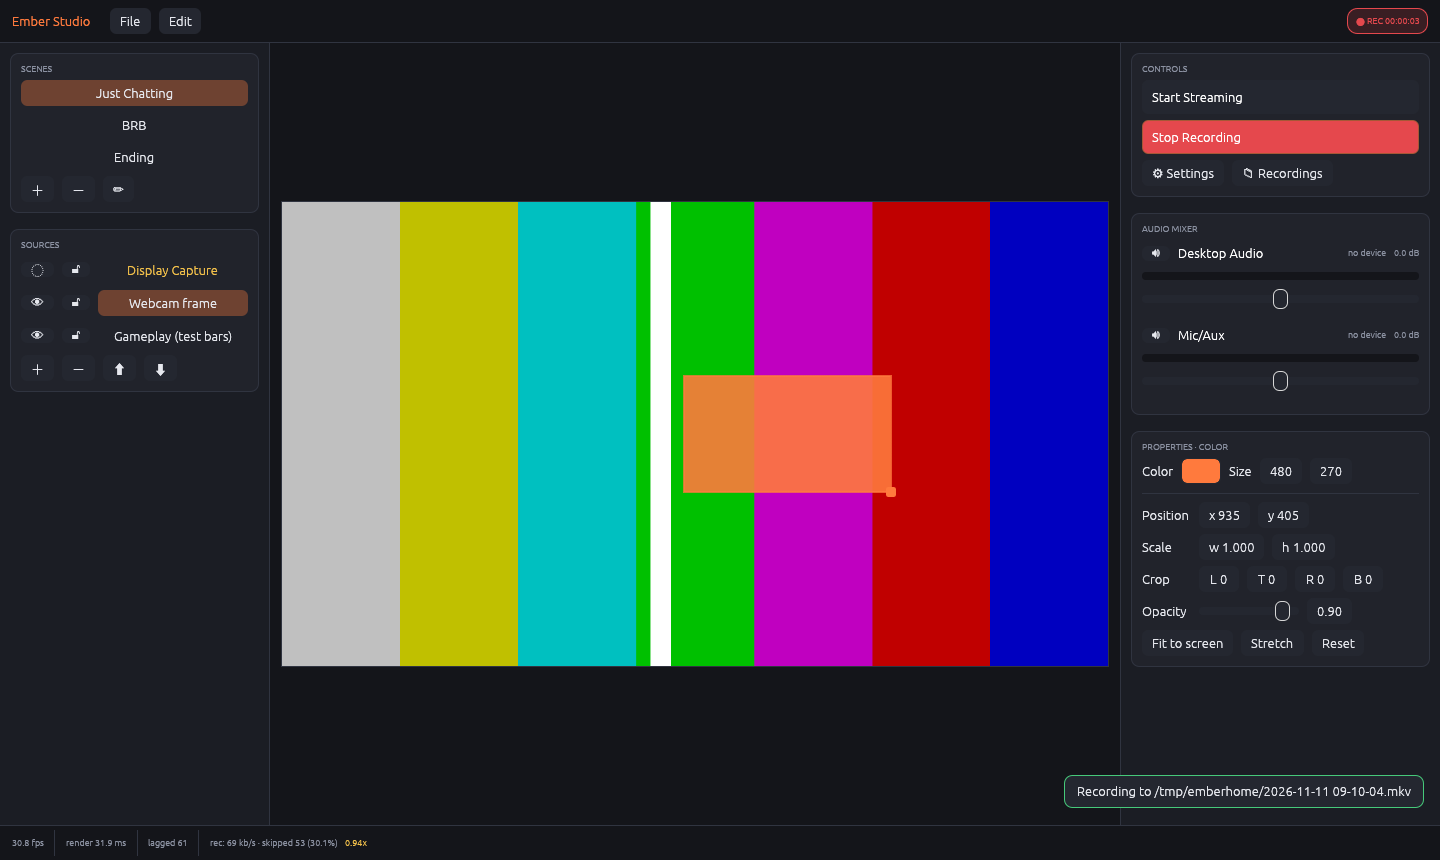
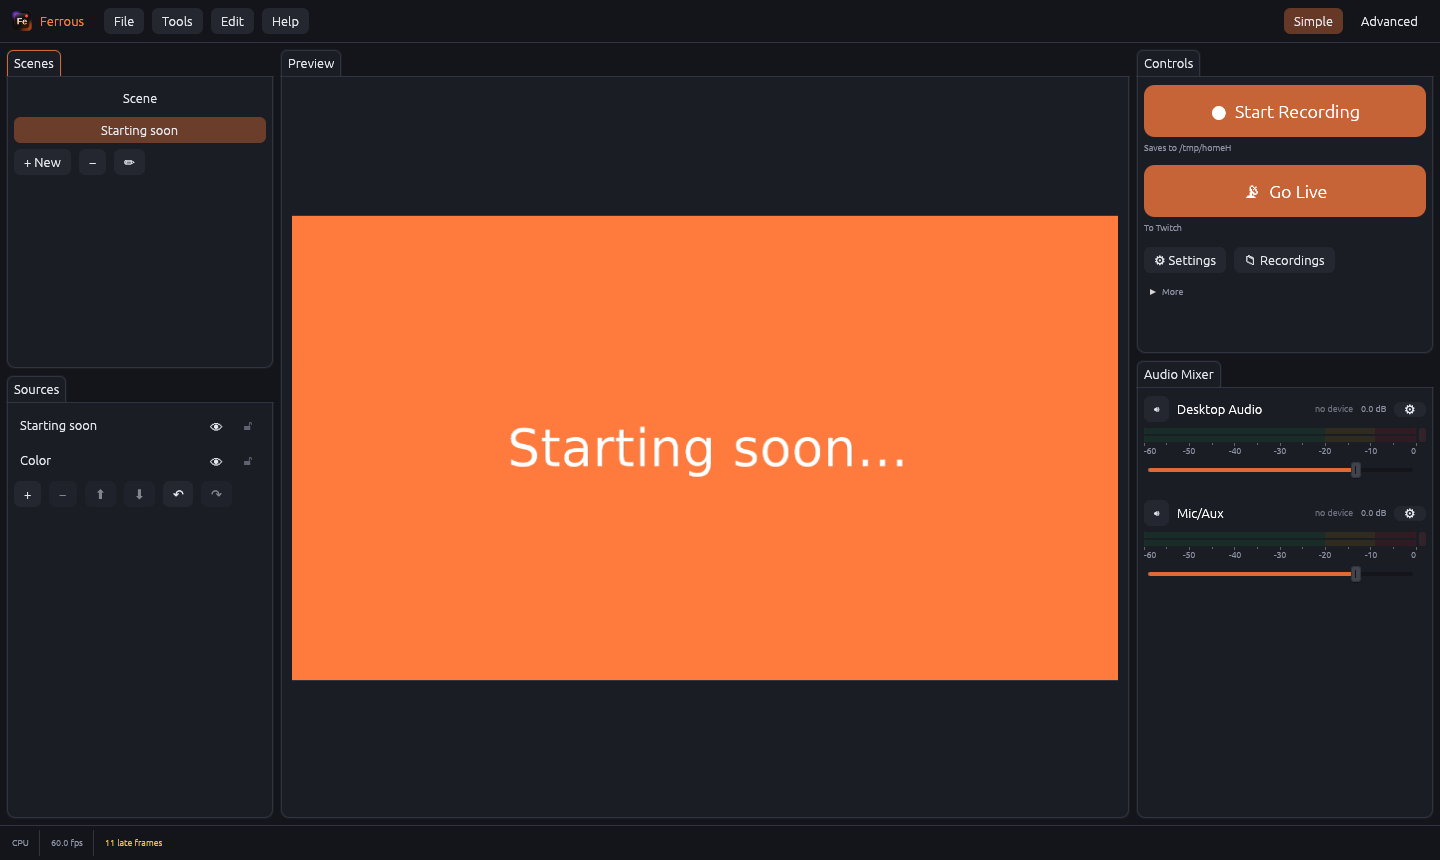
Replace the hero screenshot with the current build; harden config loading; fix Starting soon template
Damaged settings and scene files are kept as .bad instead of being overwritten, values are
range-checked on load, and the Starting soon colour card now fills the canvas.

Claude-Session: https://claude.ai/code/session_011wrQEExmMoz25quPrAzkex

diff --git a/crates/ferrous-core/src/settings.rs b/crates/ferrous-core/src/settings.rs
@@ -667,12 +667,42 @@ impl Settings {
     /// Loads settings, falling back to defaults (and logging) on any error so
     /// a corrupt file never prevents the app from starting.
     pub fn load_or_default(path: &Path) -> Self {
-        match std::fs::read_to_string(path) {
+        let mut s = match std::fs::read_to_string(path) {
             Ok(text) => serde_json::from_str(&text).unwrap_or_else(|e| {
-                log::warn!("settings file is invalid ({e}); using defaults");
+                // Keep the damaged file instead of silently overwriting it
+                // with defaults the next time settings are saved.
+                let bad = path.with_extension("json.bad");
+                let kept = std::fs::copy(path, &bad).is_ok();
+                log::warn!("settings file is invalid ({e}); using defaults{}", if kept { format!(", the old file is kept as {}", bad.display()) } else { String::new() });
                 Self::default()
             }),
             Err(_) => Self::default(),
+        };
+        s.sanitize();
+        s
+    }
+
+    /// Puts hand-edited or damaged values back into a range the rest of the
+    /// program can work with (a frame rate of 0 or a NaN zoom would otherwise
+    /// crash something far from where the bad value came from).
+    pub fn sanitize(&mut self) {
+        let v = &mut self.video;
+        v.fps = v.fps.clamp(1, 240);
+        let even = |x: u32| (x.clamp(16, 16384)) & !1;
+        v.base_width = even(v.base_width);
+        v.base_height = even(v.base_height);
+        v.output_width = even(v.output_width);
+        v.output_height = even(v.output_height);
+        v.vertical = v.vertical.map(|(w, h)| (even(w), even(h)));
+        let u = &mut self.ui;
+        u.ui_scale = if u.ui_scale.is_finite() { u.ui_scale.clamp(0.8, 2.0) } else { 1.0 };
+        u.glass = u.glass.min(2);
+        u.motion = u.motion.min(2);
+        for e in [&mut self.stream.encoder, &mut self.record.encoder] {
+            e.bitrate_kbps = e.bitrate_kbps.clamp(100, 500_000);
+            e.keyframe_interval_secs = e.keyframe_interval_secs.clamp(1, 20);
+            e.b_frames = e.b_frames.min(8);
+            e.hdr_white_nits = e.hdr_white_nits.clamp(50, 1000);
         }
     }
 
@@ -787,5 +817,53 @@ mod tests {
         assert_eq!(s.video.fps, 30);
         assert_eq!(s.video.base_width, 1920);
         assert_eq!(s.stream.encoder.encoder, "libx264");
+    }
+}
+
+#[cfg(test)]
+mod sanitize_tests {
+    use super::*;
+
+    #[test]
+    fn damaged_values_are_pulled_back_into_range() {
+        let mut s = Settings::default();
+        s.video.fps = 0;
+        s.video.base_width = 0;
+        s.video.output_height = 1_000_001;
+        s.video.vertical = Some((1, 99_999));
+        s.ui.ui_scale = f32::NAN;
+        s.ui.glass = 9;
+        s.stream.encoder.bitrate_kbps = 0;
+        s.stream.encoder.keyframe_interval_secs = 0;
+        s.sanitize();
+        assert_eq!(s.video.fps, 1);
+        assert!(s.video.base_width >= 16 && s.video.base_width % 2 == 0);
+        assert_eq!(s.video.output_height, 16384);
+        assert_eq!(s.video.vertical, Some((16, 16384)));
+        assert_eq!(s.ui.ui_scale, 1.0);
+        assert_eq!(s.ui.glass, 2);
+        assert_eq!(s.stream.encoder.bitrate_kbps, 100);
+        assert_eq!(s.stream.encoder.keyframe_interval_secs, 1);
+    }
+
+    #[test]
+    fn defaults_are_already_sane() {
+        let mut s = Settings::default();
+        let before = serde_json::to_string(&s).unwrap();
+        s.sanitize();
+        assert_eq!(before, serde_json::to_string(&s).unwrap());
+    }
+
+    #[test]
+    fn a_broken_file_is_kept_aside_not_lost() {
+        let dir = std::env::temp_dir().join("ferrous-bad-settings-test");
+        let _ = std::fs::remove_dir_all(&dir);
+        std::fs::create_dir_all(&dir).unwrap();
+        let f = dir.join("p.json");
+        std::fs::write(&f, "{ \"video\": { \"fps\": \"sixty\" } }").unwrap();
+        let s = Settings::load_or_default(&f);
+        assert_eq!(s.video.fps, Settings::default().video.fps);
+        assert!(dir.join("p.json.bad").exists());
+        let _ = std::fs::remove_dir_all(&dir);
     }
 }

diff --git a/app/src/layout.rs b/app/src/layout.rs
@@ -443,6 +443,28 @@ pub fn style(egui_style: &egui::Style, cfg: &UiSettings) -> Style {
     s
 }
 
+// ------------------------------------------------------------ simple/advanced
+
+impl Layout {
+    /// Switch between the Simple and Advanced interfaces. The layout of the
+    /// mode being left is parked in `ui.advanced_layout` (Advanced only), and
+    /// the other one comes back.
+    pub fn set_simple(&mut self, ui: &mut UiSettings, simple: bool) {
+        if ui.simple_mode == simple {
+            return;
+        }
+        ui.simple_mode = simple;
+        if simple {
+            ui.advanced_layout = Some(serialize(&self.tree));
+            *self = Self::from_preset(Preset::Simple);
+        } else {
+            let back = ui.advanced_layout.take().as_deref().and_then(parse);
+            self.tree = back.unwrap_or_else(|| Preset::Ferrous.build());
+            self.ensure_preview();
+        }
+    }
+}
+
 #[cfg(test)]
 mod tests {
     use super::*;
@@ -579,30 +601,21 @@ mod tests {
     }
 
     #[test]
+    fn garbage_layouts_fall_back_instead_of_crashing() {
+        assert!(parse("").is_none() && parse("(((").is_none() && parse("{\"a\":1}").is_none());
+        let mut ui = UiSettings { layout: Some("not a layout".into()), advanced_layout: Some("???".into()), simple_mode: true, layout_rev: 2, ..Default::default() };
+        let l = Layout::load_migrated(&mut ui);
+        assert!(l.is_open(Dock::Preview) && l.is_open(Dock::Scenes));
+        // Leaving Simple mode with a damaged parked layout gives the default one.
+        let mut l = l;
+        l.set_simple(&mut ui, false);
+        assert!(l.is_open(Dock::Preview) && l.is_open(Dock::Controls));
+    }
+
+    #[test]
     fn presets_leave_properties_to_the_right_click_menu() {
         for p in PRESETS {
             assert!(!Layout::from_preset(p).is_open(Dock::Properties), "{}", p.label());
-        }
-    }
-}
-// ------------------------------------------------------------ simple/advanced
-
-impl Layout {
-    /// Switch between the Simple and Advanced interfaces. The layout of the
-    /// mode being left is parked in `ui.advanced_layout` (Advanced only), and
-    /// the other one comes back.
-    pub fn set_simple(&mut self, ui: &mut UiSettings, simple: bool) {
-        if ui.simple_mode == simple {
-            return;
-        }
-        ui.simple_mode = simple;
-        if simple {
-            ui.advanced_layout = Some(serialize(&self.tree));
-            *self = Self::from_preset(Preset::Simple);
-        } else {
-            let back = ui.advanced_layout.take().as_deref().and_then(parse);
-            self.tree = back.unwrap_or_else(|| Preset::Ferrous.build());
-            self.ensure_preview();
         }
     }
 }

diff --git a/app/src/app.rs b/app/src/app.rs
@@ -279,6 +279,7 @@ impl FerrousApp {
 
     fn toast(&mut self, text: impl Into<String>, error: bool) {
         let text = text.into();
+        self.toasts.retain(|t| t.text != text || t.action.is_some());
         if error {
             log::error!("{text}");
             // Say what to do about it, not what the encoder said.
@@ -288,10 +289,14 @@ impl FerrousApp {
             }
         }
         self.toasts.push(Toast { text, detail: None, error, action: None, at: Instant::now() });
+        let extra = self.toasts.len().saturating_sub(5);
+        self.toasts.drain(..extra);
     }
 
     /// A message with an Undo button, for things that were just removed.
     fn toast_undo(&mut self, text: impl Into<String>) {
+        // One Undo at a time is enough; older ones would undo the wrong thing.
+        self.toasts.retain(|t| t.action != Some(ToastAction::Undo));
         self.toasts.push(Toast { text: text.into(), detail: None, error: false, action: Some(ToastAction::Undo), at: Instant::now() });
     }
 
@@ -3326,7 +3331,17 @@ impl FerrousApp {
                 add(self, Kind::Camera, Place::Corner(0.2));
             }
             Template::StartingSoon => {
-                add(self, Kind::Color, Place::Fill);
+                // A colour card the size of the canvas, so it fills the picture.
+                let (cw, ch) = self.canvas_size();
+                if let Some(id) = self.add_source_kind(Kind::Color) {
+                    self.pending_fit.remove(&id);
+                    if let Some(it) = self.item_mut(id) {
+                        if let SourceConfig::Color { width, height, .. } = &mut it.source {
+                            (*width, *height) = (cw as u32, ch as u32);
+                        }
+                        it.transform = Transform::default();
+                    }
+                }
                 if let Some(id) = self.add_source_kind(Kind::Text) {
                     self.pending_fit.remove(&id);
                     if let Some(it) = self.item_mut(id) {

diff --git a/crates/ferrous-core/src/library.rs b/crates/ferrous-core/src/library.rs
@@ -122,7 +122,20 @@ impl Library {
     }
 
     pub fn load_collection(&self, name: &str) -> SceneCollection {
-        SceneCollection::load(&self.collection_path(name)).unwrap_or_default()
+        let path = self.collection_path(name);
+        match SceneCollection::load(&path) {
+            Ok(c) => c,
+            Err(e) => {
+                // A missing file is normal (first run); a damaged one is kept
+                // aside so the next save doesn't destroy someone's scenes.
+                if path.exists() {
+                    let bad = path.with_extension("json.bad");
+                    log::warn!("scene collection {} is unreadable ({e}); kept as {}", path.display(), bad.display());
+                    let _ = std::fs::copy(&path, &bad);
+                }
+                SceneCollection::default()
+            }
+        }
     }
 
     pub fn save_collection(&self, name: &str, c: &SceneCollection) -> anyhow::Result<()> {
@@ -175,6 +188,22 @@ pub enum Kind {
 #[cfg(test)]
 mod tests {
     use super::*;
+
+    #[test]
+    fn a_damaged_scene_collection_is_kept_aside_and_a_missing_one_is_not() {
+        let root = std::env::temp_dir().join(format!("ferrous-lib-bad-{}", std::process::id()));
+        let _ = std::fs::remove_dir_all(&root);
+        std::fs::create_dir_all(&root).unwrap();
+        let lib = Library::open(&root);
+        let c = lib.load_collection("Nope");
+        assert_eq!(c.scenes.len(), 1);
+        assert!(!lib.collection_path("Nope").with_extension("json.bad").exists());
+        std::fs::write(lib.collection_path("Broken"), "{ not json").unwrap();
+        let c = lib.load_collection("Broken");
+        assert_eq!(c.scenes.len(), 1);
+        assert!(lib.collection_path("Broken").with_extension("json.bad").exists());
+        let _ = std::fs::remove_dir_all(&root);
+    }
 
     #[test]
     fn migrate_list_rename_remove() {

diff --git a/crates/ferrous-core/src/scene.rs b/crates/ferrous-core/src/scene.rs
@@ -599,7 +599,9 @@ impl Default for Transition {
 pub struct SceneCollection {
     pub scenes: Vec<Scene>,
     /// The program (live) scene.
+    #[serde(default)]
     pub current: usize,
+    #[serde(default)]
     next_id: u64,
     /// Used whenever the program scene changes.
     #[serde(default)]
@@ -790,6 +792,8 @@ impl SceneCollection {
         if c.scenes.is_empty() {
             c.scenes.push(Scene::new("Scene"));
         }
+        // A hand-edited file can point at a scene that isn't there.
+        c.current = c.current.min(c.scenes.len() - 1);
         // Repair id counter in case the file was edited by hand.
         let max = c.scenes.iter().flat_map(|s| &s.items).map(|i| i.id).max().unwrap_or(0);
         c.next_id = c.next_id.max(max + 1);
@@ -809,6 +813,25 @@ impl SceneCollection {
 #[cfg(test)]
 mod tests {
     use super::*;
+
+    #[test]
+    fn loading_repairs_an_out_of_range_current_scene_and_an_empty_file() {
+        let dir = std::env::temp_dir().join("ferrous-scene-load-test");
+        let _ = std::fs::remove_dir_all(&dir);
+        std::fs::create_dir_all(&dir).unwrap();
+        let mut c = SceneCollection::default();
+        c.add_scene("Two");
+        c.current = 1;
+        c.save(&dir.join("c.json")).unwrap();
+        let text = std::fs::read_to_string(dir.join("c.json")).unwrap().replace("\"current\": 1", "\"current\": 40");
+        std::fs::write(dir.join("c.json"), text).unwrap();
+        let l = SceneCollection::load(&dir.join("c.json")).unwrap();
+        assert_eq!(l.current, l.scenes.len() - 1);
+        std::fs::write(dir.join("e.json"), "{\"scenes\": [], \"current\": 3}").unwrap();
+        let e = SceneCollection::load(&dir.join("e.json")).unwrap();
+        assert_eq!((e.scenes.len(), e.current), (1, 0));
+        let _ = std::fs::remove_dir_all(&dir);
+    }
 
     #[test]
     fn roundtrip_and_ids() {

diff --git a/docs/PROGRESS.md b/docs/PROGRESS.md
@@ -1304,10 +1304,3 @@ which items count as shown, and the grace period.
 - Settings → Recording gains a Preset chooser and a "Presets & benchmark…" window. Built-in presets (Max quality, Balanced, Light, Small files) are generated for the encoders that passed the test; your own are saved with the profile (`recording_presets`). A preset holds encoder, quality, container, audio and recording size.
 - Benchmark (`ferrous-bench::compare`): renders lossless test footage once (built-in fractal+test-card scene, or your own clip), encodes it with each setting one at a time, and measures encode speed, bitrate and quality (SSIM/PSNR; VMAF when the FFmpeg build has libvmaf). Flags ★ best quality, ◆ best value (within a barely visible difference of the best, but the lightest), ⚡ lightest, among settings that keep up with 25% headroom. Options: equal-bitrate mode, sweep of each encoder's slow/middle/fast preset, cancel. Results have Use / Save as preset.
 - Tested end to end with real FFmpeg/libx264 here; the window itself and GPU encoders are not yet verified visually/on hardware.
-
-## UI friendliness pass
-Simple/Advanced layouts (`layout.rs` `Preset::Simple`, `Layout::set_simple`; existing customised profiles stay Advanced),
-pre-flight checks and friendly errors (`preflight.rs`, unit-tested), command palette (`palette.rs`), tour and
-troubleshooting (`help.rs`), templates and empty-state tiles (`app.rs`), accessibility switches (`theme.rs`, `mixer.rs`).
-Verified: clippy clean, 39 app tests pass, and every screen in the README gallery was captured from this build.
-Not verified on Windows hardware: high-DPI zoom behaviour and the real-device pre-flight checks.

diff --git a/CHANGELOG.md b/CHANGELOG.md
@@ -4,12 +4,6 @@ Newest first. Each entry lists what changed for users; the detail and test evide
 [`docs/PROGRESS.md`](docs/PROGRESS.md).
 
 ## v0.4 (unreleased)
-- **Easier to use**: Simple mode by default with an Advanced switch; empty-state source tiles and scene
-  templates; a pre-flight check (missing stream key, muted mic, gone monitor, full drive, broken encoder) with
-  one-click fixes; raw errors turned into plain advice; Undo toasts; Ctrl+K command palette; first-run tour and
-  Troubleshooting page; settings search, General tab, quality profiles and live size/upload hints; cleaner
-  scene and source right-click menus with Duplicate.
-- **Accessibility**: interface zoom (Ctrl +/-), high-contrast theme, colour-blind-safe hatched meters, reduce motion.
 - **Recording presets and a speed/quality benchmark** (Settings → Recording).
 - **HDR10 output** for HEVC and AV1 (SDR sources mapped to BT.2020/PQ, adjustable white level).
 - **Encoder quality pass**: NVENC two-pass and lookahead, H.264 High profile, AV1 10-bit internals, Quick Sync
